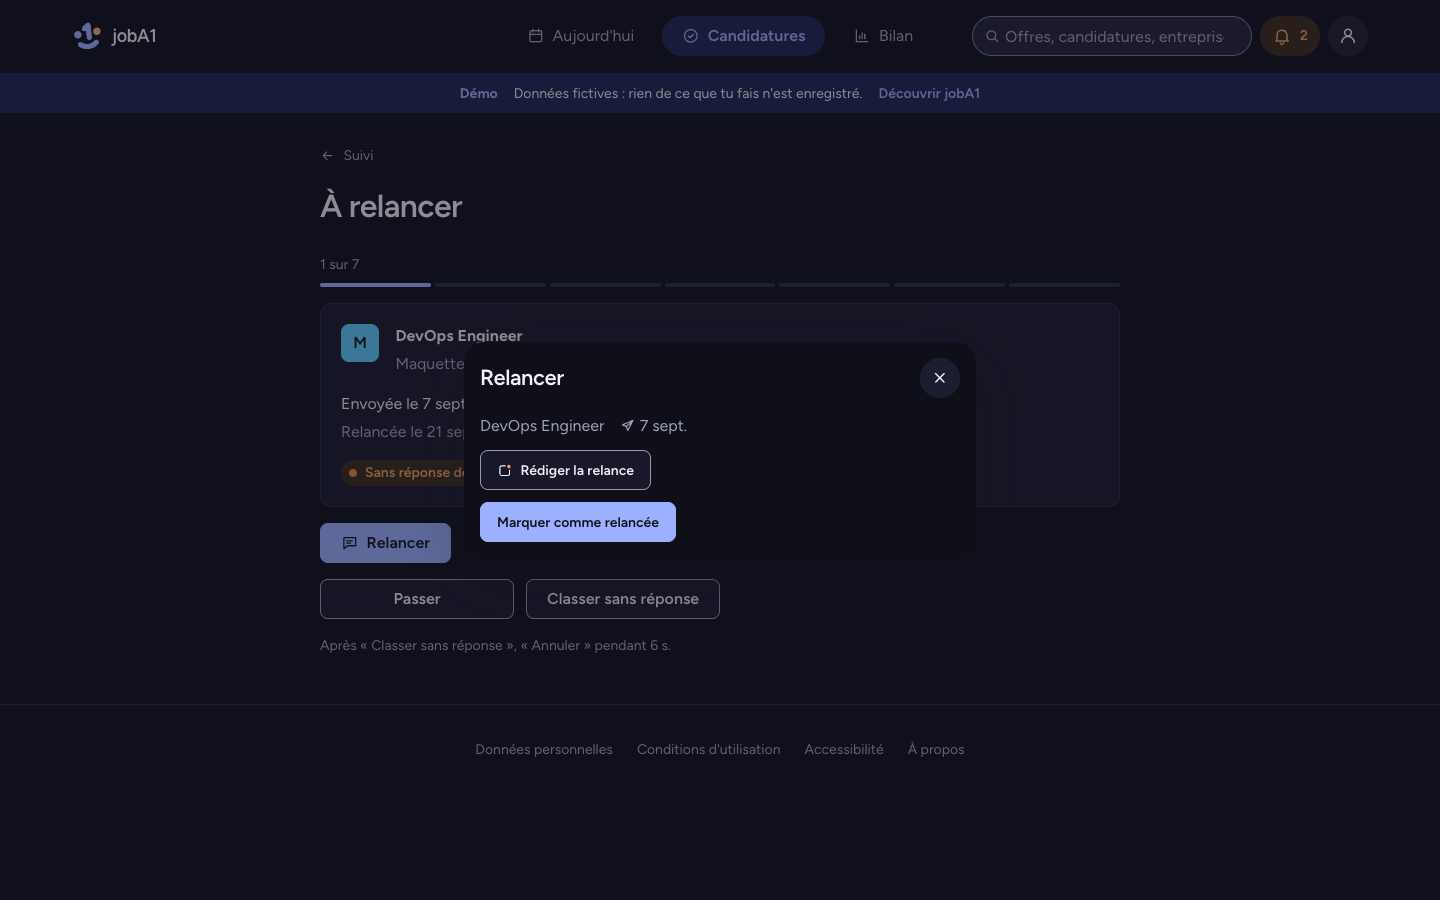
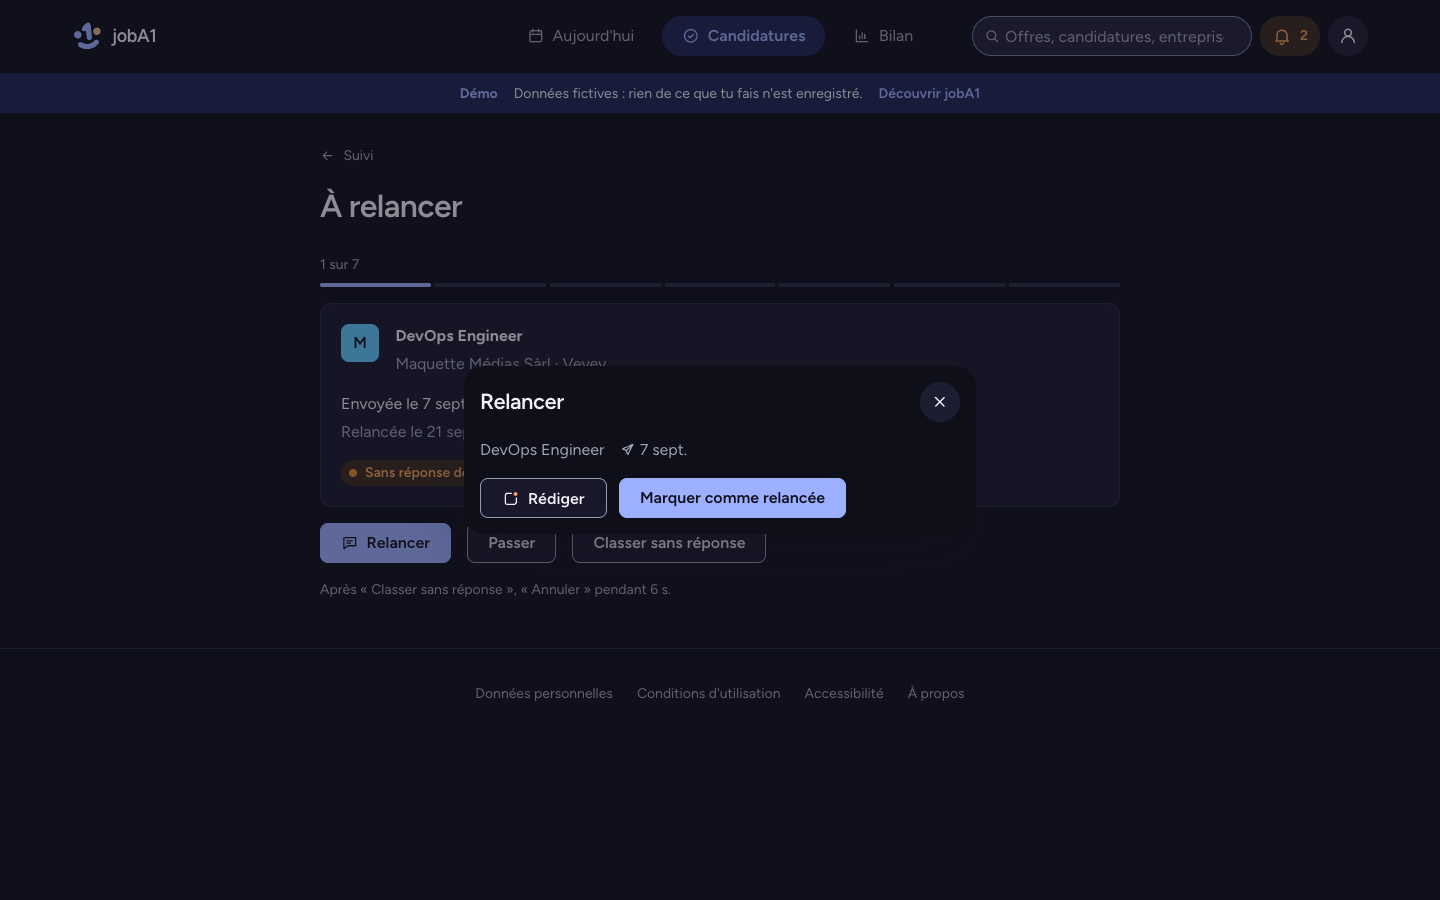
fix(relances): actions de la feuille en rangée, trois actions sur une ligne sur ordinateur

diff --git a/frontend/src/views/FollowUpsView.vue b/frontend/src/views/FollowUpsView.vue
@@ -7,6 +7,7 @@ import { followUpList, noAnswerText } from "../applicationState";
 import ActionBar from "../components/ActionBar.vue";
 import AppIcon from "../components/AppIcon.vue";
 import BottomSheet from "../components/BottomSheet.vue";
+import BusyButton from "../components/BusyButton.vue";
 import CompanyLogo from "../components/CompanyLogo.vue";
 import FaceState from "../components/FaceState.vue";
 import FollowUpPanel from "../components/FollowUpPanel.vue";
@@ -29,6 +30,7 @@ const index = ref(0);
 const followed = ref(0);
 const archived = ref(0);
 const sheet = ref(false);
+const panel = ref<InstanceType<typeof FollowUpPanel> | null>(null);
 
 const current = computed(() => queue.value[index.value] ?? null);
 const position = computed(() => (current.value ? index.value + 1 : 0));
@@ -149,7 +151,7 @@ onMounted(async () => {
         <div
           v-if="current"
           :key="current.id"
-          class="pick-step"
+          class="pick-step follow-up-step"
         >
           <article
             class="pick-card"
@@ -213,9 +215,32 @@ onMounted(async () => {
             @close="sheet = false"
           >
             <FollowUpPanel
+              ref="panel"
               :application="current"
+              external
               @done="onFollowedUp"
             />
+            <template #actions>
+              <BusyButton
+                v-if="panel && !panel.written"
+                class="secondary"
+                :busy="panel.writing"
+                busy-label="Rédaction…"
+                data-test="follow-up-write"
+                @click="panel.write()"
+              >
+                <span class="with-icon"><AppIcon name="ai" />Rédiger</span>
+              </BusyButton>
+              <button
+                type="button"
+                class="primary"
+                :disabled="panel?.saving"
+                data-test="follow-up-done"
+                @click="panel?.markDone()"
+              >
+                Marquer comme relancée
+              </button>
+            </template>
           </BottomSheet>
         </div>
         <div

diff --git a/frontend/src/components/FollowUpPanel.vue b/frontend/src/components/FollowUpPanel.vue
@@ -13,7 +13,9 @@ const { aiNote } = usePlan();
 
 // Relancer une candidature (docs/38) : un court message (IA ou modèle simple), à copier ou à
 // ouvrir dans ta messagerie ; rien n'est envoyé par la plateforme. Puis « Marquer comme relancée ».
-const props = defineProps<{ application: Application }>();
+// `external` : les deux actions (« Rédiger la relance », « Marquer comme relancée ») sont posées par
+// la page, dans la rangée d'actions d'une feuille du bas (les relances une à une) ; exposées ici.
+const props = withDefaults(defineProps<{ application: Application; external?: boolean }>(), { external: false });
 const emit = defineEmits<{ done: [] }>();
 
 const subject = ref("");
@@ -65,6 +67,7 @@ async function markDone(): Promise<void> {
     saving.value = false;
   }
 }
+defineExpose({ write, markDone, writing, saving, written: computed(() => !!text.value) });
 </script>
 
 <template>
@@ -77,7 +80,7 @@ async function markDone(): Promise<void> {
       <span><AppIcon name="send" /><span class="visually-hidden">envoyée le </span>{{ dateInList(`${application.sent_at}T12:00:00`) }}</span>
     </p>
     <BusyButton
-      v-if="!text"
+      v-if="!text && !external"
       class="secondary small"
       :busy="writing"
       busy-label="Rédaction…"
@@ -88,7 +91,7 @@ async function markDone(): Promise<void> {
         <span class="with-icon"><AppIcon name="ai" />Rédiger la relance</span>
       </HoverNote>
     </BusyButton>
-    <template v-else>
+    <template v-else-if="text">
       <p
         v-if="reason"
         class="hint"
@@ -131,6 +134,7 @@ async function markDone(): Promise<void> {
       {{ error }}
     </p>
     <button
+      v-if="!external"
       type="button"
       class="primary small"
       :disabled="saving"

diff --git a/frontend/src/style.css b/frontend/src/style.css
@@ -3602,8 +3602,13 @@ main:focus { outline: none; }
 .follow-up-lines { display: grid; gap: var(--space-1); line-height: var(--leading-normal); }
 .follow-up-lines p { margin: 0; }
 .pick-card > .state-pill { justify-self: start; }
-/* Sur ordinateur, les boutons gardent la largeur de leur texte (§3) ; pleine largeur dans le panneau. */
-@media (min-width: 600px) { .follow-up-main, .follow-up-row { justify-self: start; } }
+/* Sur ordinateur, les trois actions sur une ligne, à la largeur de leur texte (§3) ; sous 600 px, le
+   panneau : « Relancer » plein, puis la rangée. */
+@media (min-width: 600px) {
+  .follow-up-step { grid-template-columns: repeat(3, auto) 1fr; }
+  .follow-up-step > :not(.action-bar), .follow-up-step .action-bar-note { grid-column: 1 / -1; }
+  .follow-up-step .follow-up-row { display: contents; }
+}
 .suivi-todo > .follow-ups-start { align-self: flex-start; }
 
 /* --- Aujourd'hui en une colonne (1.6.51, docs/interface.md n° 17, planche « Revue 1.6.46 ») ---

diff --git a/frontend/src/views/FollowUpsView.test.ts b/frontend/src/views/FollowUpsView.test.ts
@@ -79,6 +79,9 @@ describe("Les relances une à une", () => {
     await wrapper.find("[data-test=follow-up-open]").trigger("click");
     const panel = wrapper.findComponent({ name: "FollowUpPanel" });
     expect(panel.exists()).toBe(true);
+    // Les deux actions dans la rangée de la feuille : « Rédiger » en contour, « Marquer comme relancée » en principal.
+    expect(wrapper.find("[data-test=follow-up-write]").text()).toContain("Rédiger");
+    expect(wrapper.find("[data-test=follow-up-done]").classes()).toContain("primary");
     panel.vm.$emit("done");
     await flushPromises();
     expect(wrapper.find("[data-test=follow-up-card]").text()).toContain("Beta SA");
